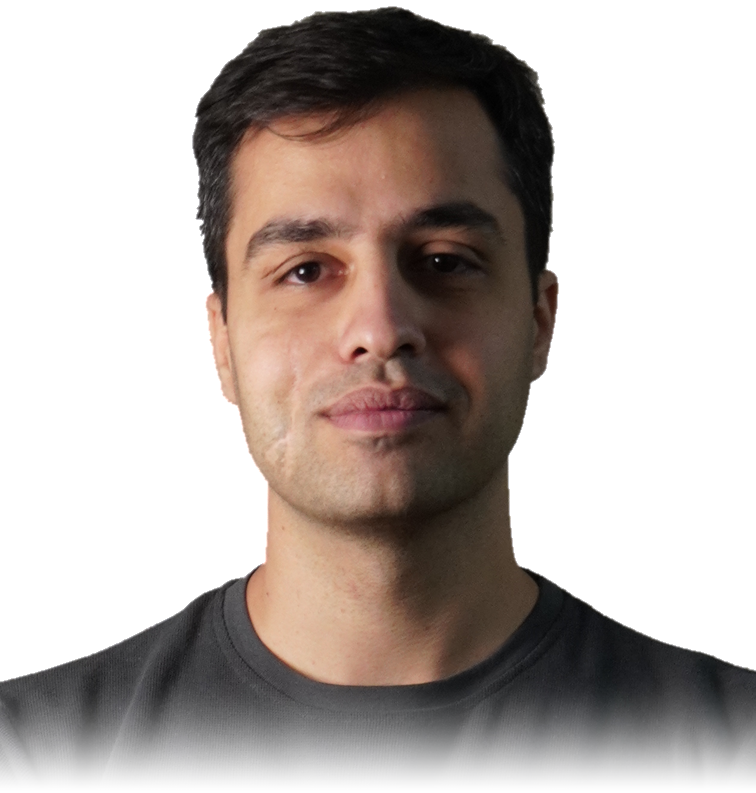
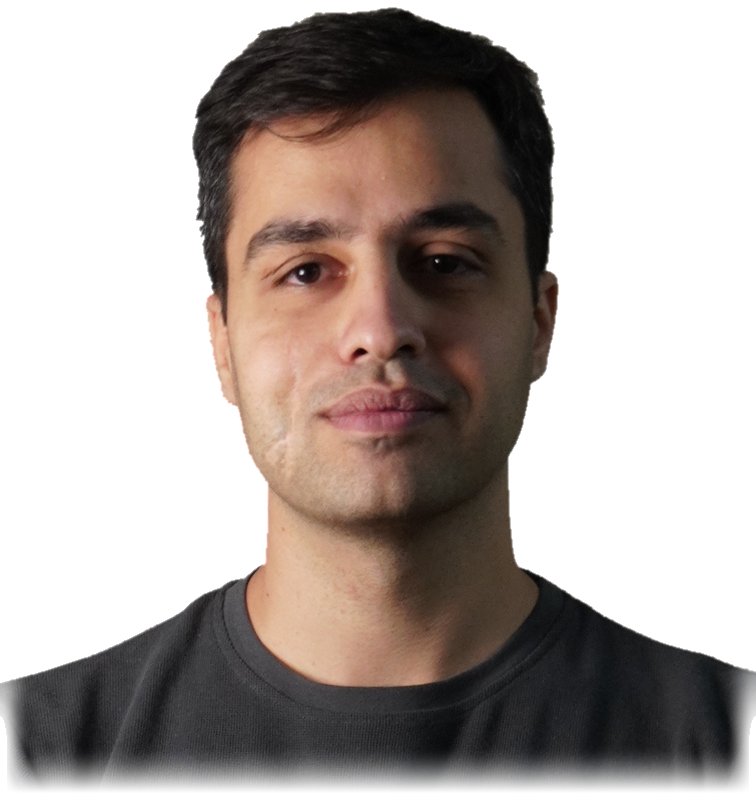
fix: adjust portrait height for better display

diff --git a/src/content/copy.ts b/src/content/copy.ts
@@ -71,7 +71,7 @@ export const portrait = {
   src: '/images/milad-mohammadi.png',
   alt: 'Milad Mohammadi',
   width: 756,
-  height: 793,
+  height: 794,
 } as const;
 
 export const aboutPage = {
